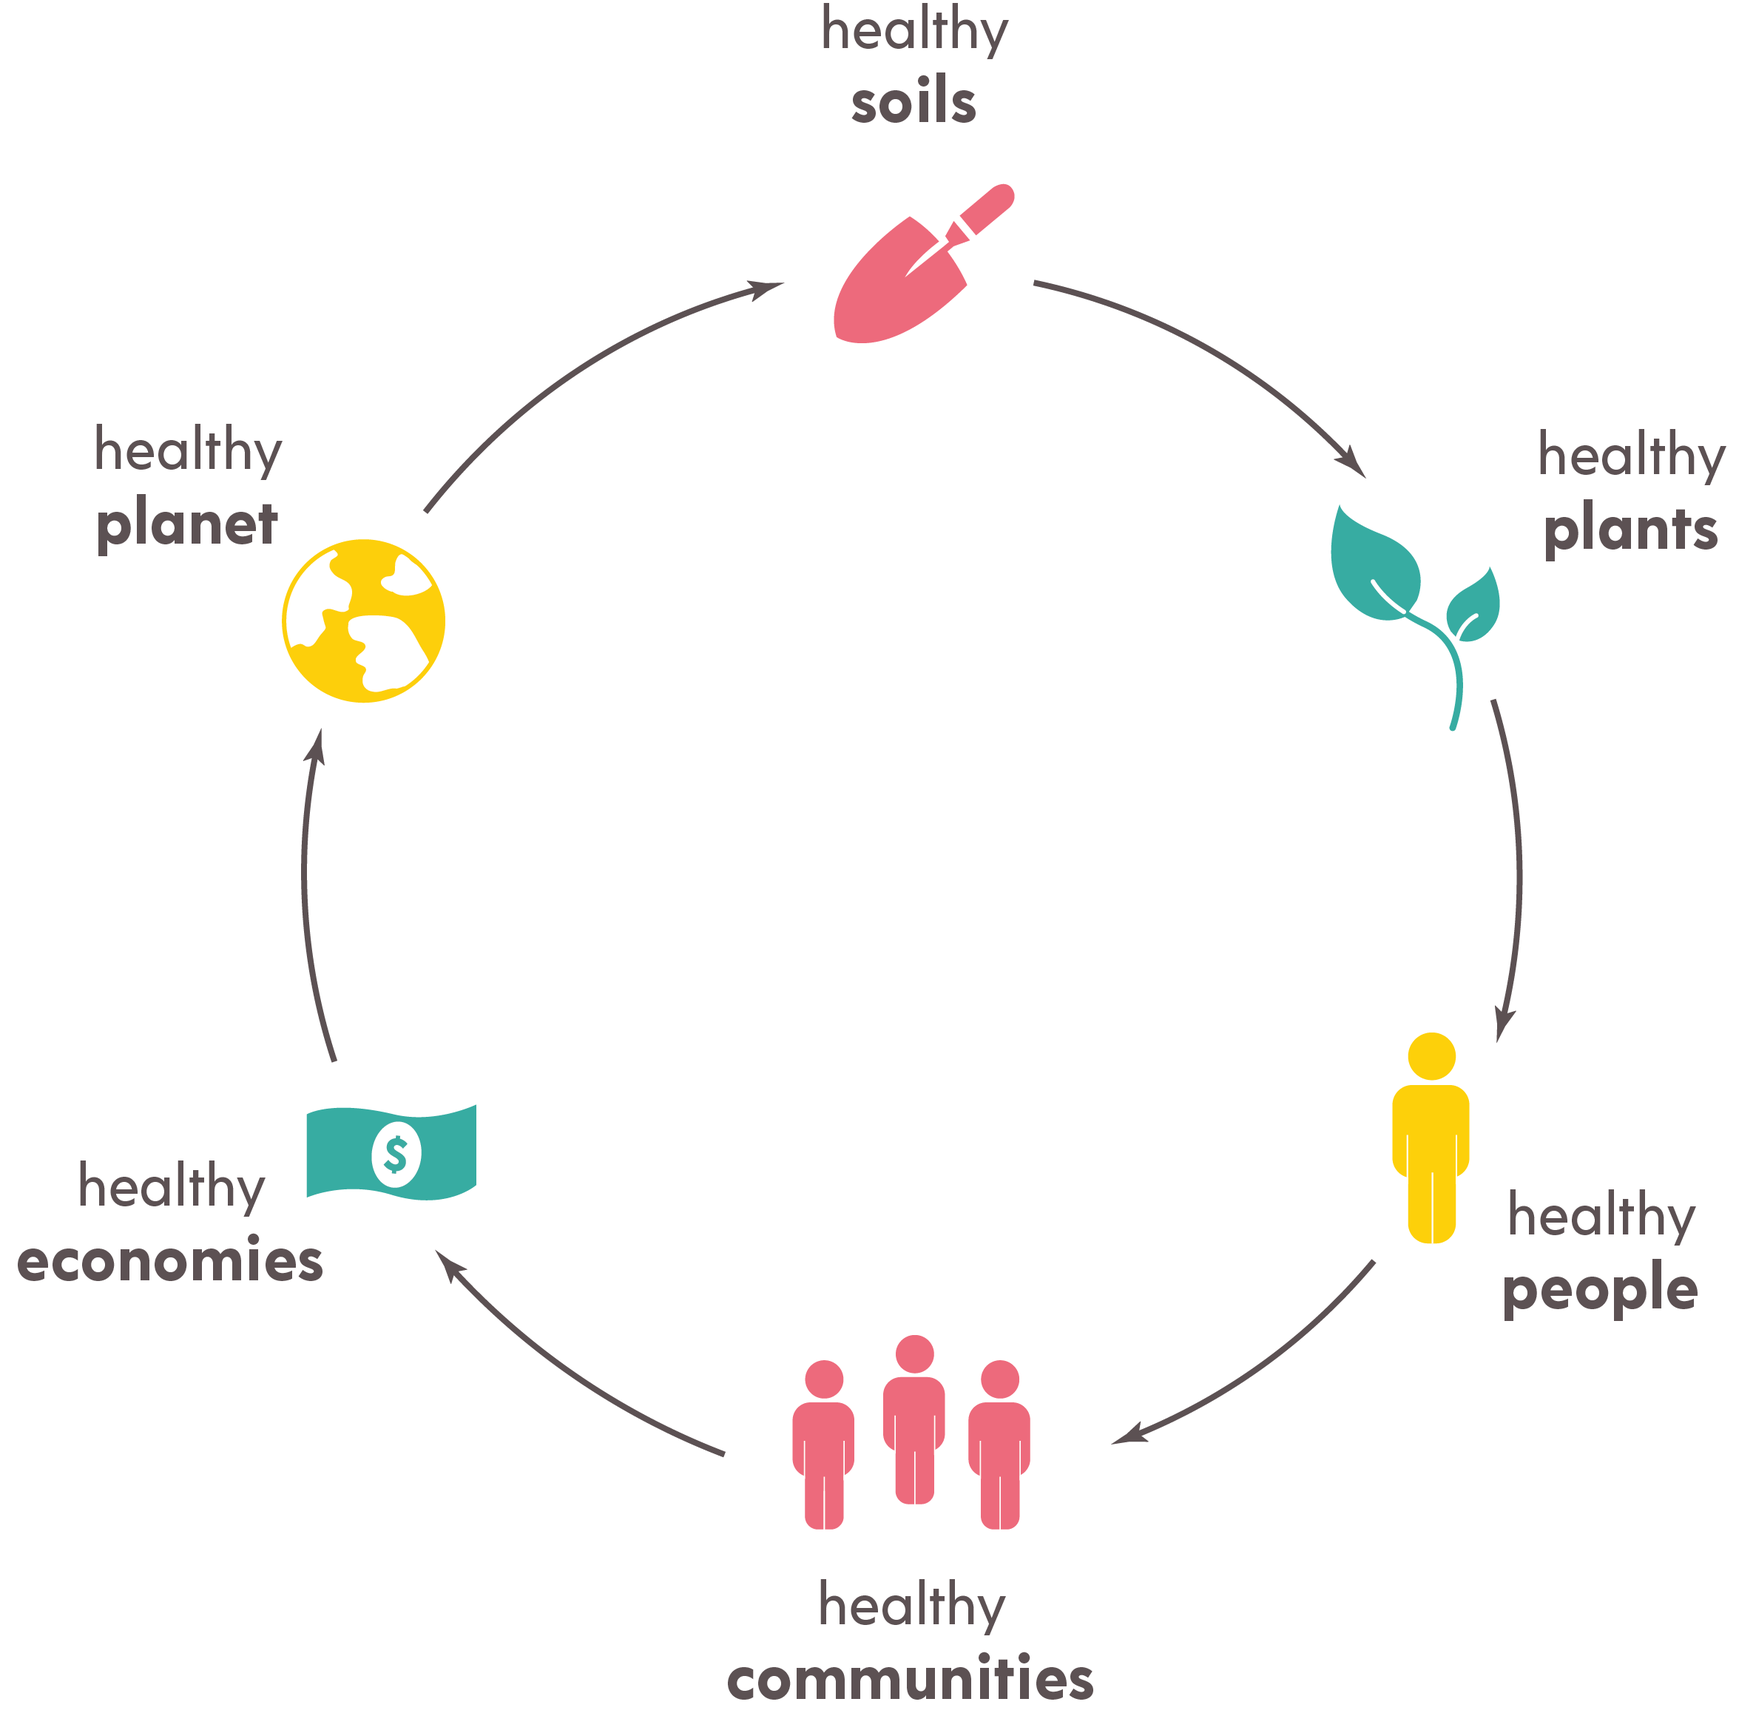
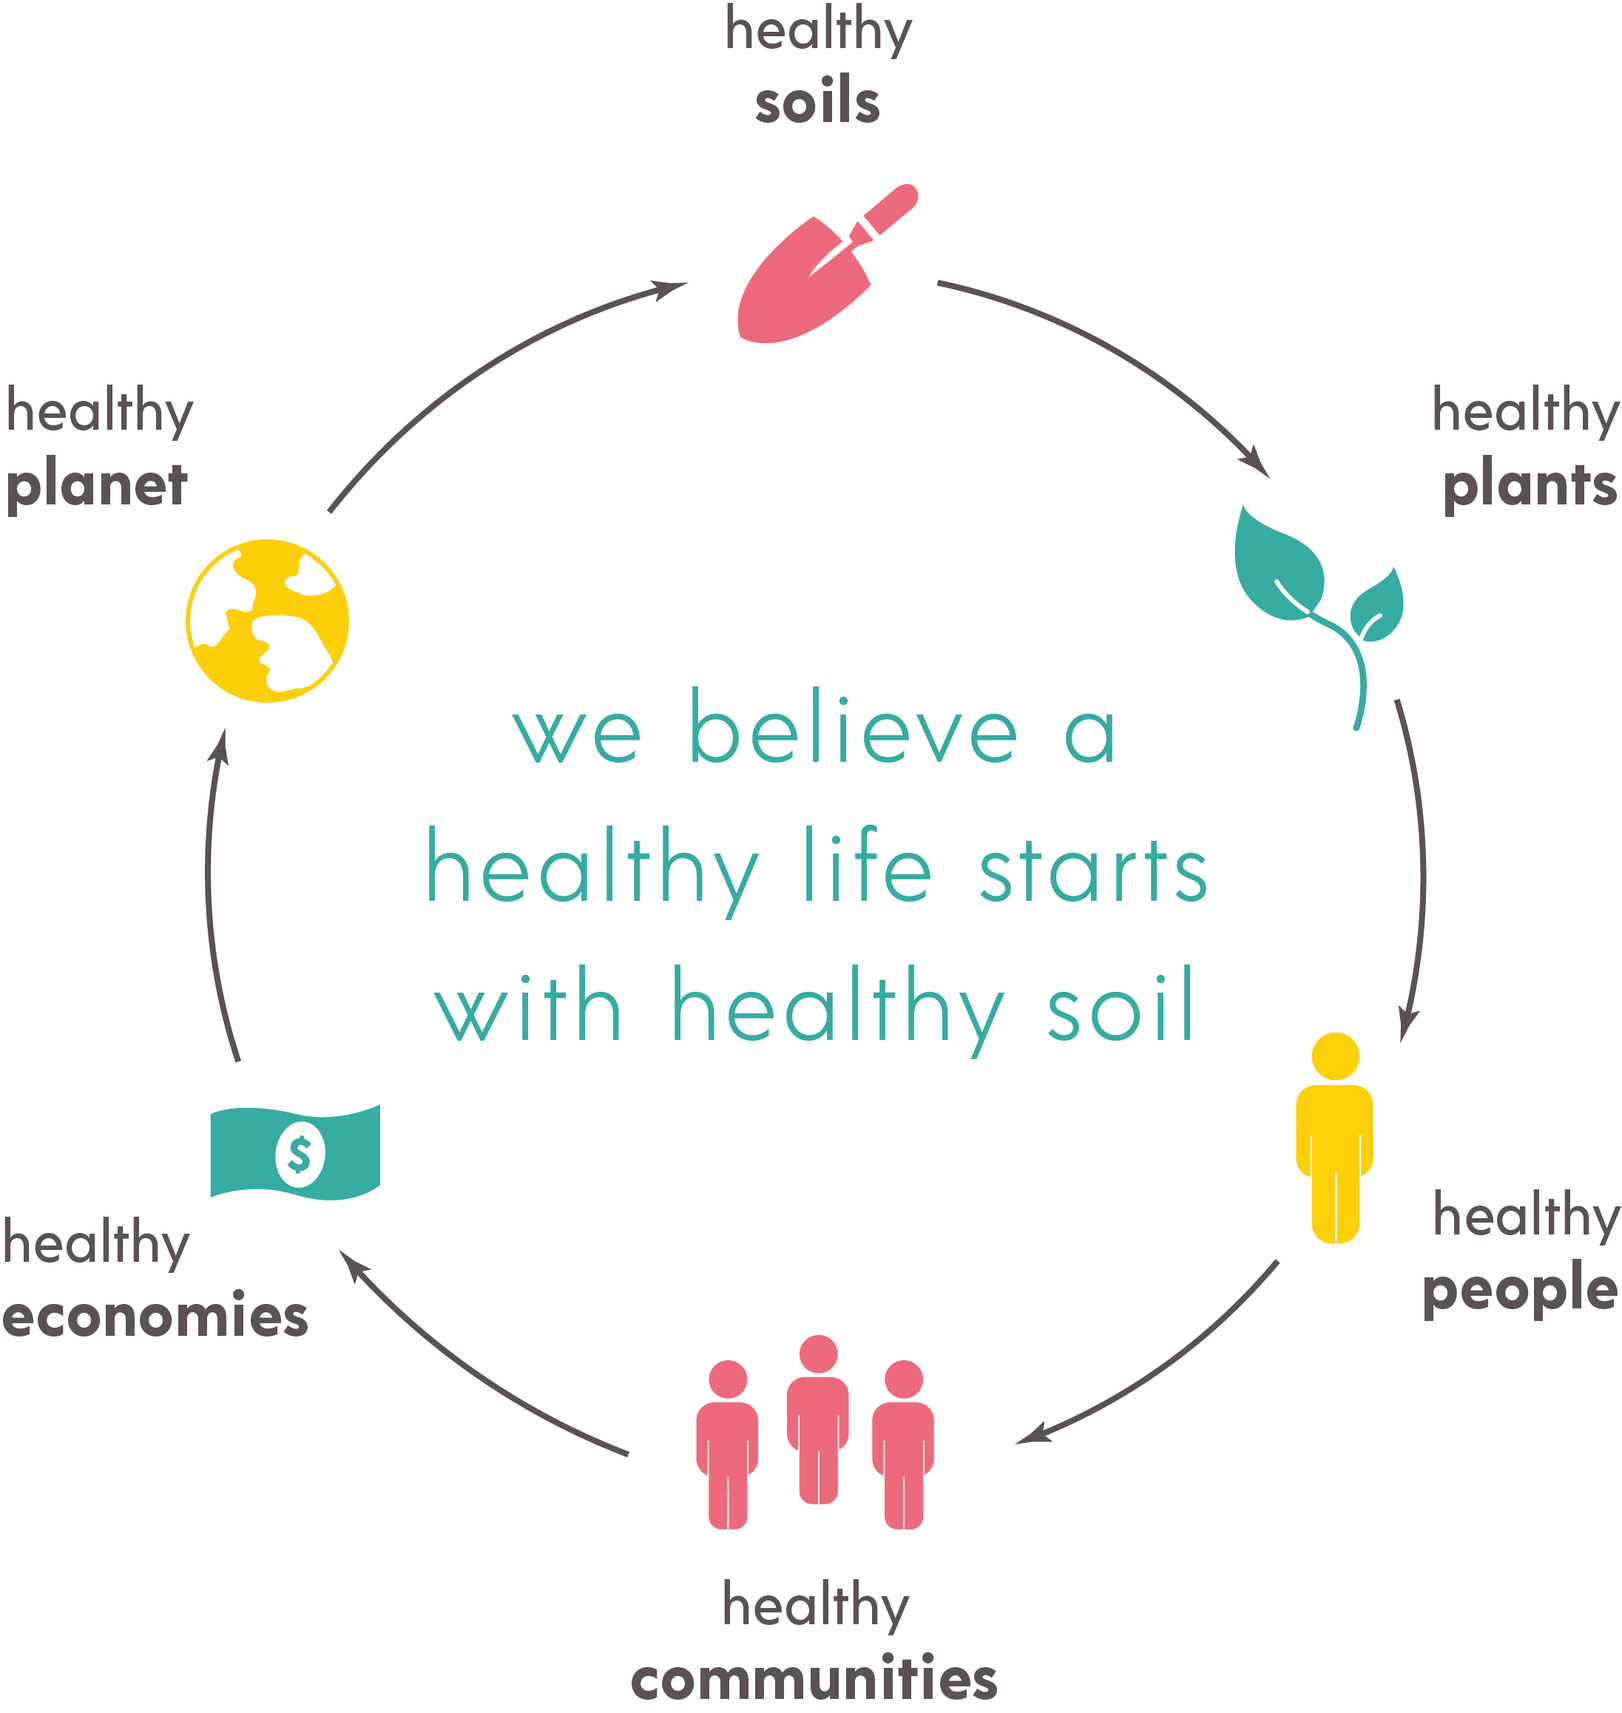
chores: updated text typography system. fixed issue with web of soil transformation when name is not present. replaced healthy soils image with a new one

diff --git a/pages/web-of-soil/index.tsx b/pages/web-of-soil/index.tsx
@@ -2,7 +2,7 @@ import React, { useEffect, useRef, useState } from 'react';
 
 // components
 import ReactFullpage from '@fullpage/react-fullpage';
-import { Section, Slide, Image, Icon, Modal } from 'design-system/atoms';
+import { Section, Slide, Image, Icon, Modal, Text } from 'design-system/atoms';
 import { MediaHub } from 'design-system/templates/media-hub';
 import { Footer } from 'design-system/templates';
 import ReactPlayer from 'react-player';
@@ -249,10 +249,10 @@ export default function WebOfSoilPage() {
                     <Image className='object-cover' url='/6Fs/brooke-lark-08bOYnH_r_E-unsplash_Nsw5XgGxU.jpg' />
                     <div className='absolute top-1/2 left-1/2 transform -translate-y-1/2 max-w-[566px]'>
                       <img className='relative -left-10 h-[241px] w-[241px]' src='/images/web-of-soil/icon-food.png' />
-                      <p className='font-acre-regular text-[36px]'>
+                      <Text type='p' weight='regular' size='md'>
                         whether it is a plant that grew in it or an animal that grew from plants, 95% of all food can be
                         traced back to soil!
-                      </p>
+                      </Text>
                       <div className='mt-10 flex justify-center'>
                         <button
                           className='bg-white shadow font-acre-regular text-[24px] text-pink-500 py-2 px-5'
@@ -267,10 +267,10 @@ export default function WebOfSoilPage() {
                     <Image className='object-cover' url='/6Fs/Fiber_Slide_NkVYdxIN7-t.jpg' />
                     <div className='absolute top-1/2 right-1/2 transform -translate-y-1/2 max-w-[566px]'>
                       <img className='relative -left-10 h-[241px] w-[241px]' src='/images/web-of-soil/icon-fiber.png' />
-                      <p className='font-acre-regular text-[36px]'>
+                      <Text type='p' weight='regular' size='md'>
                         natural? synthetic? paper or plastic? from clothing to accessories to wood and oil, all that
                         warms and protects us, starts in the soil.
-                      </p>
+                      </Text>
                       <div className='mt-10 flex justify-center'>
                         <button
                           className='bg-white shadow font-acre-regular text-[24px] text-yellow-500 py-2 px-5'
@@ -285,10 +285,10 @@ export default function WebOfSoilPage() {
                     <Image className='object-cover' url='/6Fs/Filter_zylk3NyhU.jpg' transformation={[{ rotate: 90 }]} />
                     <div className='text-center absolute top-1/2 left-1/2 transform -translate-y-1/2 -translate-x-1/2 max-w-[886px]'>
                       <img className='mx-auto h-[241px] w-[241px]' src='/images/web-of-soil/icon-filter.png' />
-                      <p className='font-acre-regular text-[36px]'>
+                      <Text type='p' weight='regular' size='md'>
                         soils are the lungs and liver of the earth, removing contaminants from the air we breathe and
                         the water we drink, free of charge!
-                      </p>
+                      </Text>
                       <div className='mt-10 flex justify-center'>
                         <button
                           className='bg-white shadow font-acre-regular text-[24px] text-blue-500 py-2 px-5'
@@ -304,10 +304,10 @@ export default function WebOfSoilPage() {
                     <div className='flex items-center justify-center absolute w-full top-1/2 transform -translate-y-3/4'>
                       <img className='h-[241px] w-[241px]' src='/images/web-of-soil/icon-foundation.png' />
                       <div className='w-[760px]'>
-                        <p className='font-acre-regular text-[36px] text-white'>
+                        <Text type='p' weight='regular' size='md' className='text-white'>
                           the base of our economy, the base of food webs, and the physical base of our cities, soils are
                           literally the foundation for life and civilization—past and present!
-                        </p>
+                        </Text>
                         <div className='mt-10 flex justify-center'>
                           <button
                             className='bg-white shadow font-acre-regular text-[24px] text-gray-500 py-2 px-5'
@@ -326,10 +326,10 @@ export default function WebOfSoilPage() {
                         className='relative -left-10 h-[241px] w-[241px]'
                         src='/images/web-of-soil/icon-farmaceutical.png'
                       />
-                      <p className='font-acre-regular text-[36px]'>
+                      <Text type='p' weight='regular' size='md'>
                         soils are home to the plants, fungi, & bacteria that produce most of the world’s medicine — and
                         ~98% of the microbes that inhabit it are yet to be discovered!
-                      </p>
+                      </Text>
                       <div className='mt-10 flex justify-center'>
                         <button
                           className='bg-white shadow font-acre-regular text-[24px] text-orange-500 py-2 px-5'
@@ -342,13 +342,13 @@ export default function WebOfSoilPage() {
                   </Slide>
                   <Slide className='relative'>
                     <Image className='object-cover' url='/6Fs/Fun_XHWRw699s.jpg' />
-                    <div className='flex items-center justify-center absolute w-full bottom-1/4 transform'>
+                    <div className='flex justify-center absolute w-full bottom-1/4 transform'>
                       <img className='h-[241px] w-[241px]' src='/images/web-of-soil/icon-fun.png' />
                       <div className='w-[760px]'>
-                        <p className='font-acre-regular text-[36px]'>
+                        <Text type='p' weight='regular' size='md'>
                           from paints and pottery to playing fields and parks, soils provide the grounds for music,
                           sports, and art!
-                        </p>
+                        </Text>
                         <div className='mt-10 flex justify-center'>
                           <button
                             className='bg-white shadow font-acre-regular text-[24px] text-teal-500 py-2 px-5'

diff --git a/helpers/use-web-of-soil.ts b/helpers/use-web-of-soil.ts
@@ -4,7 +4,15 @@ import { uniqBy } from 'lodash';
 
 const spreadsheetId = '1GjpYaQbXVWIEn68iYyW0XiEQKJD6sL_4WJYI0ZSbE4s';
 
-export function useWebOfSoils(sheetName: string) {
+export function useWebOfSoils(
+  sheetName:
+    | 'food data structure'
+    | 'filter data structure'
+    | 'foundations data structure'
+    | 'fiber data structure'
+    | 'fun data structure'
+    | 'farmaceuticals data structure'
+) {
   const [isLoading, setIsLoading] = useState(false);
   const [error, setError] = useState(null);
   const [graph, setGraph] = useState<{
@@ -15,7 +23,6 @@ export function useWebOfSoils(sheetName: string) {
       link: undefined | string;
       image: undefined | string;
       shape: 'circularImage';
-      brokenImage: string;
       to: string[];
       size?: number;
     }[];
@@ -58,15 +65,18 @@ export function useWebOfSoils(sheetName: string) {
                   label: '',
                   description: '',
                   link: undefined,
-                  image: undefined,
+                  image: '/images/logo.svg',
                   shape: 'circularImage',
-                  brokenImage: '/images/logo.svg',
                   to: [],
                 };
 
                 for (const index of headerIndices) {
                   const header = headerRow['c'][index]['v']?.toLowerCase()?.trim() ?? '';
                   const cell = item.c[index]?.['v'];
+
+                  if (!cell && header === 'name') {
+                    break;
+                  }
 
                   switch (header) {
                     case 'name':
@@ -86,8 +96,6 @@ export function useWebOfSoils(sheetName: string) {
                       const regexp = new RegExp(/^https|^http/i);
                       if (regexp.test(cell)) {
                         node.image = cell;
-                      } else {
-                        node.image = '/images/logo.svg';
                       }
                       break;
                     case 'to':

diff --git a/design-system/atoms/text/text.utils.ts b/design-system/atoms/text/text.utils.ts
@@ -1,11 +1,11 @@
 import { TextProps } from './text.interfaces';
 
 export const textTypeMap: { [Type in TextProps['type']]: string } = {
-  h1: 'leading-none',
-  h2: 'leading-none',
-  h3: 'leading-none',
-  p: 'leading-none',
-  span: 'leading-none',
+  h1: 'leading-tight sm:leading-tight lg:leading-tight xl:leading-tight 2xl:leading-tight',
+  h2: 'leading-tight sm:leading-tight lg:leading-tight xl:leading-tight 2xl:leading-tight',
+  h3: 'leading-tight sm:leading-tight lg:leading-tight xl:leading-tight 2xl:leading-tight',
+  p: 'leading-tight sm:leading-tight lg:leading-tight xl:leading-tight 2xl:leading-tight',
+  span: 'leading-tight sm:leading-tight lg:leading-tight xl:leading-tight 2xl:leading-tight',
 };
 
 export const textFontWeightMap: { [Weight in TextProps['weight']]: string } = {
@@ -18,10 +18,13 @@ export const textFontWeightMap: { [Weight in TextProps['weight']]: string } = {
 };
 
 export const textSizeMap: { [Size in TextProps['size']]: string } = {
-  xs: 'text-xs lg:text-sm xl:text-base 2xl:text-xl leading-none',
-  sm: 'lg:text-lg xl:text-xl 2xl:text-4xl leading-none',
-  md: 'text-lg lg:text-[28px] xl:text-[32px] 2xl:text-5xl leading-none',
-  lg: 'text-2xl lg:text-[40px] xl:text-5xl 2xl:text-6xl leading-none',
-  xl: 'text-[32px] lg:text-[52px] xl:text-6xl 2xl:text-7xl leading-none',
-  '2xl': 'text-4xl lg:text-5xl xl:text-7xl 2xl:text-8xl leading-none',
+  xxs: 'text-[10px] lg:text-xs xl:text-[18px]',
+  xs: 'text-xs lg:text-sm xl:text-[24px]',
+  sm: 'lg:text-[18px] 2xl:text-[30px]',
+  md: 'text-[18px] lg:text-xl xl:text-[36px]',
+  lg: 'text-[24px]  lg:text-[40px] xl:text-[40px]',
+  xl: 'text-[32px] xl:text-[60px]',
+  '2xl': 'text-[36px] lg:text-[40px] xl:text-[70px]',
+  '3xl': 'text-[40px] lg:text-[52px] xl:text-[80px]',
+  '4xl': 'text-[60px] lg:text-[72px] xl:-text-[90px]',
 };

diff --git a/layouts/sections/home/healthy-soils.tsx b/layouts/sections/home/healthy-soils.tsx
@@ -19,26 +19,10 @@ export function HealthySoilsSection() {
     <Section>
       <Slide>
         <div className='relative container flex flex-col justify-evenly h-full'>
-          <div className='relative max-h-full max-w-full'>
-            <img
-              className='max-h-[900px] h-full w-full object-contain'
-              src='/images/home/healthy-soils/healthy-soil-wheel.png'
-            />
-            <div className='absolute top-1/2 left-1/2 transform -translate-x-1/2 -translate-y-1/2 text-center'>
-              <div className='space-y-4'>
-                <Text type='p' weight='light' size='lg' className='text-teal-500'>
-                  we believe
-                </Text>
-                <Text type='p' weight='light' size='lg' className='text-teal-500'>
-                  a healthy life starts
-                </Text>
-                <Text type='p' weight='light' size='lg' className='text-teal-500'>
-                  with healthy soil
-                </Text>
-              </div>
-              <div className='mt-20 text-center hidden sm:block'>
-                <Button as='button' label='find out how' type='neutral' size='md' />
-              </div>
+          <div className='relative max-w-full max-h-[80%]'>
+            <img className='h-full w-full object-contain' src='/images/home/healthy-soils/healthy-soil-wheel.png' />
+            <div className='absolute top-3/4 left-1/2 transform -translate-x-1/2 -translate-y-full text-center'>
+              <Button as='button' label='find out how' type='neutral' size='md' />
             </div>
           </div>
           <div className='text-center sm:hidden'>

diff --git a/layouts/sections/home/about-us.tsx b/layouts/sections/home/about-us.tsx
@@ -8,7 +8,7 @@ export function AboutUsSection() {
         <Text type='h1' weight='regular' size='xl' className='text-teal-500 xl:text-left xl:w-full'>
           about us
         </Text>
-        <Text type='p' weight='light' size='sm' className='xl:text-left'>
+        <Text type='p' weight='light' size='sm' className='xl:text-left leading-normal'>
           we are on a mission to change the way the world looks at soil-digging into what’s dirty and calling into
           question what’s clean.
         </Text>
@@ -16,7 +16,7 @@ export function AboutUsSection() {
           url='/Home_Page/grass_roots_pnwdrMGcq.jpeg'
           className='w-full object-cover max-h-[320px] sm:object-contain xl:absolute xl:right-0 xl:object-cover xl:max-h-full xl:max-w-[50%]'
         />
-        <Text type='p' weight='light' size='sm' className='xl:text-left'>
+        <Text type='p' weight='light' size='sm' className='xl:text-left leading-normal'>
           we believe in change from the ground up! by starting at the root of some of our most pressing global issues,
           we aim to promote environmental and human health across the globe!
         </Text>

diff --git a/layouts/sections/home/get-involved.tsx b/layouts/sections/home/get-involved.tsx
@@ -5,15 +5,15 @@ export function GetInvolvedSection() {
   return (
     <Section>
       <Image url='/Home_Page/AdobeStock_144874490_6lpeJS0jbCq.jpg' className='object-cover' />
-      <div className='px-10 absolute bottom-10 w-full flex flex-col lg:items-center lg:flex-row 2xl:space-x-20'>
-        <div className='text-white'>
-          <Text type='h2' weight='light' size='xl' className='mb-6'>
+      <div className='px-10 absolute bottom-10 w-full flex flex-col lg:items-center lg:flex-row lg:space-x-10 2xl:space-x-20'>
+        <div className='text-white tw-space-y-6'>
+          <Text type='h2' weight='light' size='xl'>
             soil does so much for us,
           </Text>
           <Text type='h2' weight='bold' size='xl'>
             find out what you
           </Text>
-          <Text type='h2' weight='bold' size='xl' className='mb-6'>
+          <Text type='h2' weight='bold' size='xl'>
             can do for soil!
           </Text>
         </div>

diff --git a/pages/get-involved/index.tsx b/pages/get-involved/index.tsx
@@ -41,7 +41,7 @@ export default function GetInvolvedPage() {
           {mergedData.map(({ name, slug, iconWithText, imageUrl = '' }) => {
             return (
               <div className='relative w-full h-full' key={name}>
-                <Image url={imageUrl} className={`object-cover ${slug === 'donations' ? 'object-right' : ''}`} />
+                <Image url={imageUrl} className={`object-cover`} />
                 <Link href={`/get-involved/${slug}`}>
                   <div
                     className={`absolute z-10 transform -translate-x-1/2 -translate-y-1/2 rounded-full top-1/2 left-1/2 cursor-pointer`}

diff --git a/design-system/templates/header/main-header/index.tsx b/design-system/templates/header/main-header/index.tsx
@@ -98,8 +98,8 @@ export function MainHeader({
               </Text>
             </a>
           </Link>
-          <ul className='hidden gap-16 w-full xl:flex xl:justify-center'>{createNavLinks()}</ul>
-          <SocialMediaIcons className='absolute top-1/2 right-2 transform -translate-y-1/2 flex gap-3 md:gap-4' />
+          <ul className='hidden space-x-16 w-full xl:flex xl:justify-center'>{createNavLinks()}</ul>
+          <SocialMediaIcons className='absolute top-1/2 right-2 transform -translate-y-1/2 flex space-x-3 md:space-x-4' />
         </nav>
       </header>
       <MobileNavMenu isMenuOpen={isMenuOpen} />

diff --git a/design-system/atoms/text/index.tsx b/design-system/atoms/text/index.tsx
@@ -8,7 +8,7 @@ export function Text({ type, className, weight, size, ...props }: TextProps) {
   function getTextClasses() {
     return {
       'data-text-size': size,
-      className: `${textTypeMap[type]} ${textSizeMap[size]} ${textFontWeightMap[weight]} leading-none ${className}`,
+      className: `${textTypeMap[type]} ${textSizeMap[size]} ${textFontWeightMap[weight]} ${className}`,
     };
   }
   switch (type) {

diff --git a/design-system/atoms/text/text.interfaces.ts b/design-system/atoms/text/text.interfaces.ts
@@ -1,6 +1,6 @@
 export interface TextProps extends React.PropsWithChildren<{}> {
   type: 'h1' | 'h2' | 'h3' | 'p' | 'span';
-  size: 'xs' | 'sm' | 'md' | 'lg' | 'xl' | '2xl';
+  size: 'xxs' | 'xs' | 'sm' | 'md' | 'lg' | 'xl' | '2xl' | '3xl' | '4xl';
   weight: 'thin' | 'light' | 'regular' | 'medium' | 'semibold' | 'bold';
   className?: string;
   style?: React.CSSProperties;
